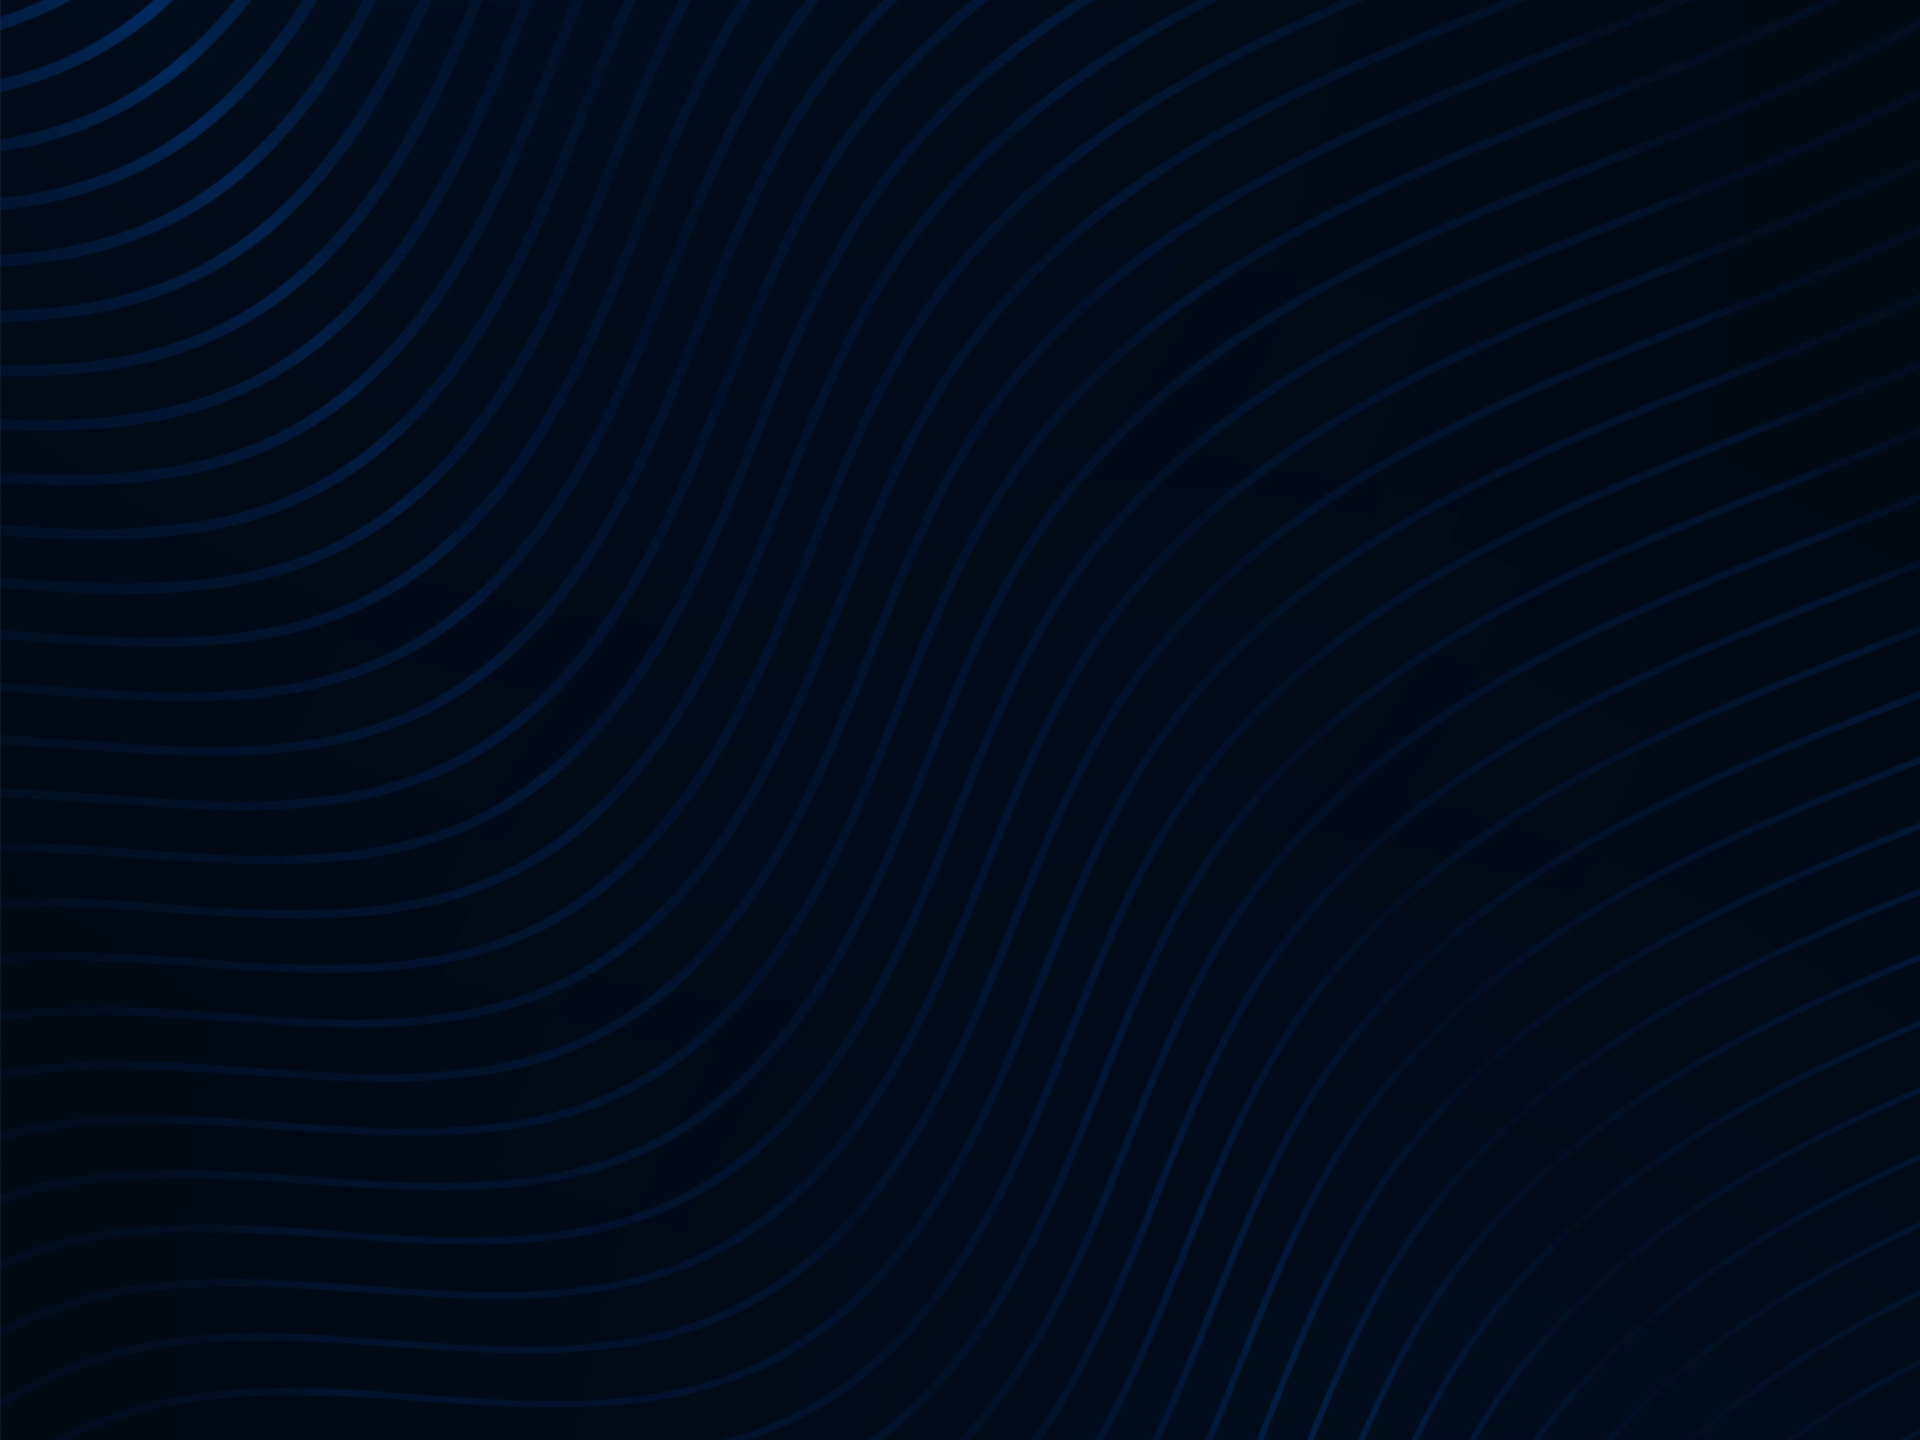
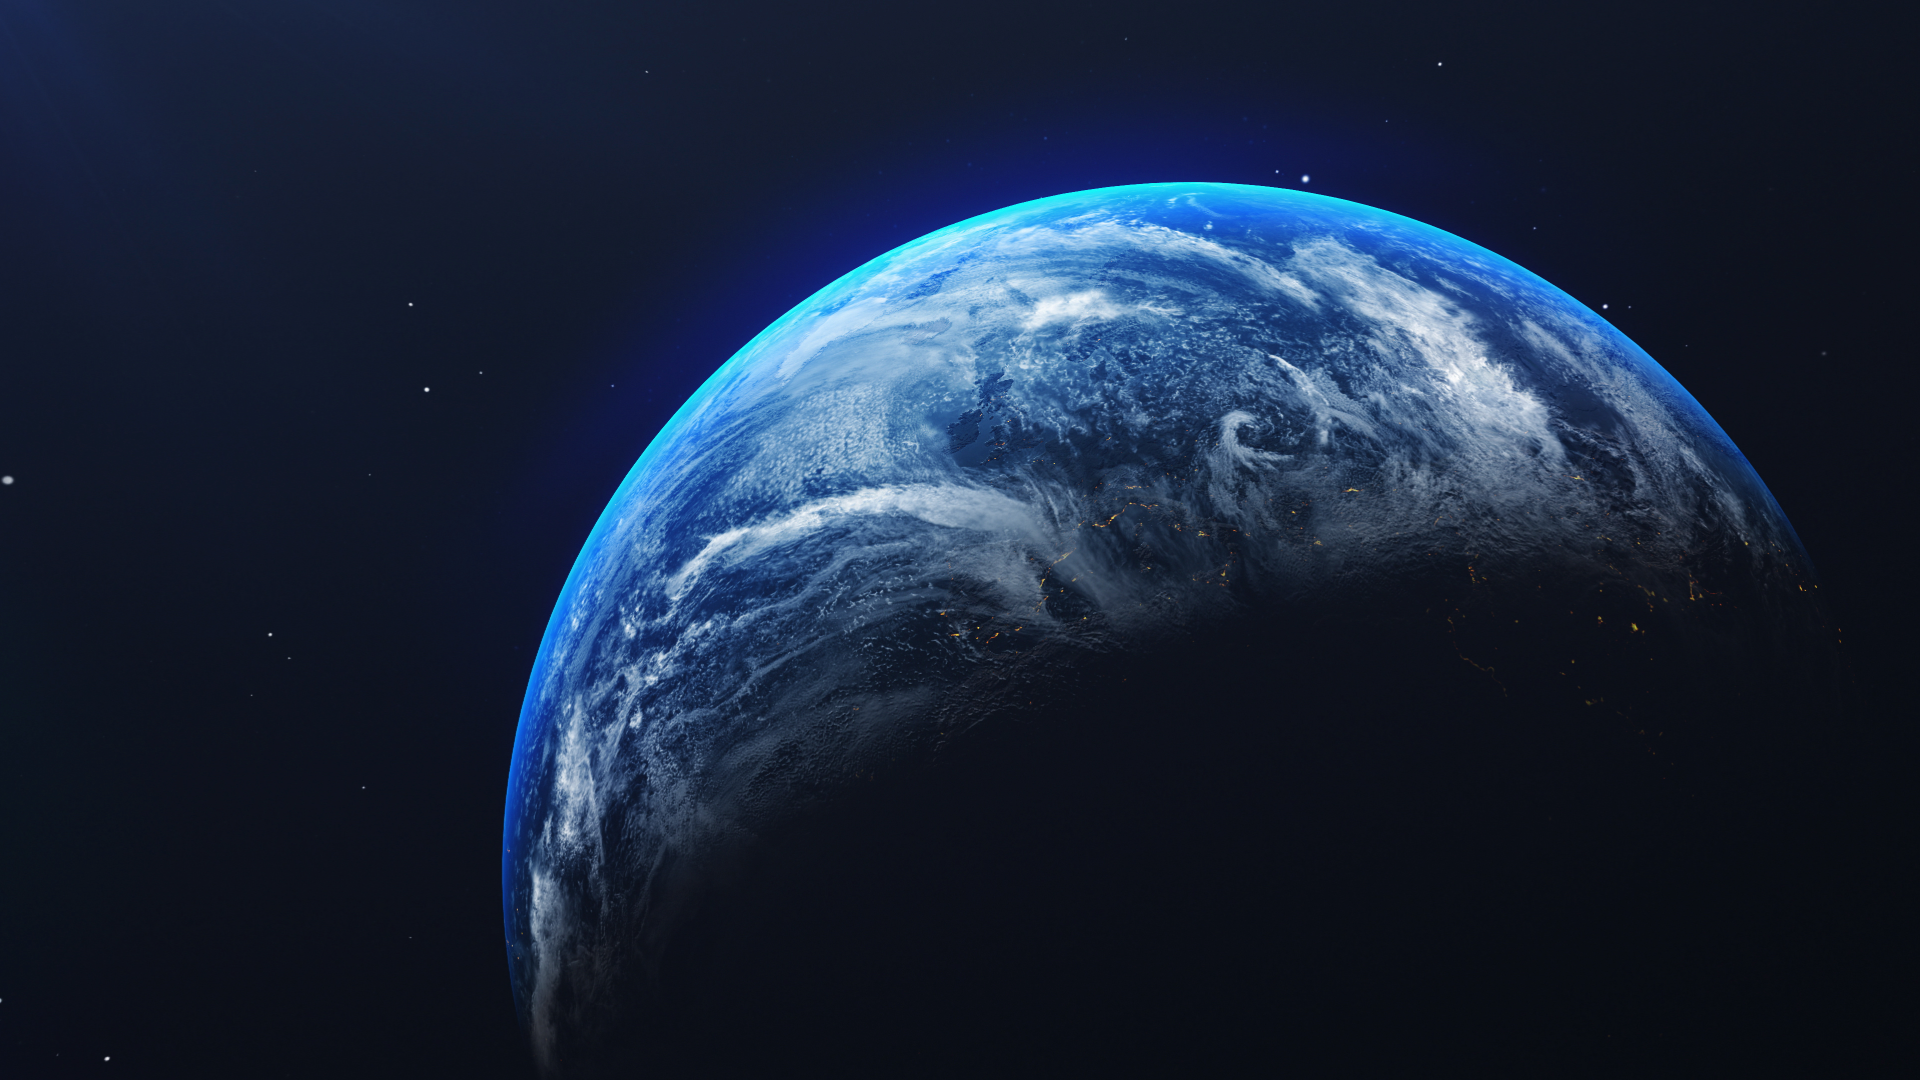
feat: update About Us and Blog components

diff --git a/src/utils/constant.tsx b/src/utils/constant.tsx
@@ -4,10 +4,8 @@ export const LANDING_NAV_ITEMS = [
   { label: "Products", link: "/products" },
   { label: "Customers", link: "/customers" },
   { label: "Installers", link: "/installers/landing" },
-  { label: "Designs", link: "/designs" },
-  { label: "Blog", link: "/blog" },
+  { label: "Design Platform", link: "/designs" },
   { label: "About Us", link: "/about-us" },
-  { label: "Contact", link: "/contact-us" },
 ] as const;
 
 /** Bluetti EP2000 product page — hero (`/bluetti`) */
@@ -3068,120 +3066,156 @@ export const ABOUT_US_PAGE = {
     items: [
       {
         id: "innovative-solar",
+        slug: "innovative-solar-technology",
         title: "Innovative Solar Technology",
         excerpt:
           "Exploring the latest advancements in solar panel technology that enhance efficiency and reduce costs for consumers.",
         category: "Installation",
-        date: "16 Sep",
+        dateLabel: "16 Sep",
         authorName: "Emily Johnson",
-        authorAvatarSrc: "/images/about-us/avatar.jpg",
+        authorAvatarSrc: "/images/logo.webp",
         authorAvatarAlt: "Emily Johnson",
-        imageSrc: "/images/about-us/portfolio-thumb.png",
-        imageAlt: "Rooftop solar installation on a residential property",
+        heroImageSrc: "/images/about-us/portfolio-thumb.png",
+        heroImageAlt: "Rooftop solar installation on a residential property",
+        thumbnailImageSrc: "/images/home/solar-panel-design.png",
+        thumbnailImageAlt: "Rooftop solar installation on a residential property",
+        href: "/blog/innovative-solar-technology",
       },
       {
         id: "sustainable-energy",
+        slug: "sustainable-energy-solutions",
         title: "Sustainable Energy Solutions",
         excerpt:
           "Exploring the latest advancements in solar panel technology that enhance efficiency and reduce costs for consumers.",
         category: "Installation",
-        date: "16 Sep",
+        dateLabel: "16 Sep",
         authorName: "Michael Smith",
-        authorAvatarSrc: "/images/about-us/avatar.jpg",
+        authorAvatarSrc: "/images/logo.webp",
         authorAvatarAlt: "Michael Smith",
-        imageSrc: "/images/about-us/portfolio-thumb.png",
-        imageAlt: "Sustainable energy system on a suburban home",
+        heroImageSrc: "/images/about-us/portfolio-thumb.png",
+        heroImageAlt: "Sustainable energy system on a suburban home",
+        thumbnailImageSrc: "/images/home/solar-panel-design.png",
+        thumbnailImageAlt: "Sustainable energy system on a suburban home",
+        href: "/blog/sustainable-energy-solutions",
       },
       {
         id: "solar-trends",
+        slug: "solar-energy-trends",
         title: "Solar Energy Trends",
         excerpt:
           "Exploring the latest advancements in solar panel technology that enhance efficiency and reduce costs for consumers.",
         category: "Installation",
-        date: "16 Sep",
+        dateLabel: "16 Sep",
         authorName: "Sarah Lee",
         authorAvatarSrc: "/images/about-us/avatar.jpg",
         authorAvatarAlt: "Sarah Lee",
-        imageSrc: "/images/about-us/portfolio-thumb.png",
-        imageAlt: "Solar array installation in progress",
+        heroImageSrc: "/images/about-us/portfolio-thumb.png",
+        heroImageAlt: "Solar array installation in progress",
+        thumbnailImageSrc: "/images/home/solar-panel-design.png",
+        thumbnailImageAlt: "Solar array installation in progress",
+        href: "/blog/solar-energy-trends",
       },
       {
         id: "urban-solar",
+        slug: "solar-innovations-for-urban-spaces",
         title: "Solar Innovations for Urban Spaces",
         excerpt:
           "Exploring the latest advancements in solar panel technology that enhance efficiency and reduce costs for consumers.",
         category: "Installation",
-        date: "16 Sep",
+        dateLabel: "16 Sep",
         authorName: "Jessica Martinez",
         authorAvatarSrc: "/images/about-us/avatar.jpg",
         authorAvatarAlt: "Jessica Martinez",
-        imageSrc: "/images/about-us/portfolio-thumb.png",
-        imageAlt: "Urban rooftop solar project",
+        heroImageSrc: "/images/about-us/portfolio-thumb.png",
+        heroImageAlt: "Urban rooftop solar project",
+        thumbnailImageSrc: "/images/home/solar-panel-design.png",
+        thumbnailImageAlt: "Urban rooftop solar project",
+        href: "/blog/solar-innovations-for-urban-spaces",
       },
       {
         id: "economic-growth",
+        slug: "solar-energy-and-economic-growth",
         title: "Solar Energy and Economic Growth",
         excerpt:
           "Exploring the latest advancements in solar panel technology that enhance efficiency and reduce costs for consumers.",
         category: "Installation",
-        date: "16 Sep",
+        dateLabel: "16 Sep",
         authorName: "David Thompson",
         authorAvatarSrc: "/images/about-us/avatar.jpg",
         authorAvatarAlt: "David Thompson",
-        imageSrc: "/images/about-us/portfolio-thumb.png",
-        imageAlt: "Commercial solar deployment",
+        heroImageSrc: "/images/about-us/portfolio-thumb.png",
+        heroImageAlt: "Commercial solar deployment",
+        thumbnailImageSrc: "/images/home/solar-panel-design.png",
+        thumbnailImageAlt: "Commercial solar deployment",
+        href: "/blog/solar-energy-and-economic-growth",
       },
       {
         id: "efficient-future",
+        slug: "building-an-efficient-solar-future",
         title: "Building an Efficient Solar Future",
         excerpt:
           "Exploring the latest advancements in solar panel technology that enhance efficiency and reduce costs for consumers.",
         category: "Installation",
-        date: "16 Sep",
+        dateLabel: "16 Sep",
         authorName: "Linda Chen",
         authorAvatarSrc: "/images/about-us/avatar.jpg",
         authorAvatarAlt: "Linda Chen",
-        imageSrc: "/images/about-us/portfolio-thumb.png",
-        imageAlt: "Efficient solar system on a new build home",
+        heroImageSrc: "/images/about-us/portfolio-thumb.png",
+        heroImageAlt: "Efficient solar system on a new build home",
+        thumbnailImageSrc: "/images/home/solar-panel-design.png",
+        thumbnailImageAlt: "Efficient solar system on a new build home",
+        href: "/blog/building-an-efficient-solar-future",
       },
       {
         id: "solar-storage",
+        slug: "the-future-of-solar-storage",
         title: "The Future of Solar Storage",
         excerpt:
           "Exploring the latest advancements in solar panel technology that enhance efficiency and reduce costs for consumers.",
         category: "Installation",
-        date: "16 Sep",
+        dateLabel: "16 Sep",
         authorName: "Brian Adams",
         authorAvatarSrc: "/images/about-us/avatar.jpg",
         authorAvatarAlt: "Brian Adams",
-        imageSrc: "/images/about-us/portfolio-thumb.png",
-        imageAlt: "Home battery and solar combination",
+        heroImageSrc: "/images/about-us/portfolio-thumb.png",
+        heroImageAlt: "Home battery and solar combination",
+        thumbnailImageSrc: "/images/home/solar-panel-design.png",
+        thumbnailImageAlt: "Home battery and solar combination",
+        href: "/blog/the-future-of-solar-storage",
       },
       {
         id: "smart-homes",
+        slug: "integrating-solar-into-smart-homes",
         title: "Integrating Solar into Smart Homes",
         excerpt:
           "Exploring the latest advancements in solar panel technology that enhance efficiency and reduce costs for consumers.",
         category: "Installation",
-        date: "16 Sep",
+        dateLabel: "16 Sep",
         authorName: "Karen White",
         authorAvatarSrc: "/images/about-us/avatar.jpg",
         authorAvatarAlt: "Karen White",
-        imageSrc: "/images/about-us/portfolio-thumb.png",
-        imageAlt: "Smart home with integrated solar controls",
-      },
-      {
+        heroImageSrc: "/images/about-us/portfolio-thumb.png",
+        heroImageAlt: "Smart home with integrated solar controls",
+        thumbnailImageSrc: "/images/home/solar-panel-design.png",
+        thumbnailImageAlt: "Smart home with integrated solar controls",
+        href: "/blog/integrating-solar-into-smart-homes",
+        },
+        {
         id: "policy-adoption",
+        slug: "the-role-of-policy-in-solar-adoption",
         title: "The Role of Policy in Solar Adoption",
         excerpt:
           "Exploring the latest advancements in solar panel technology that enhance efficiency and reduce costs for consumers.",
         category: "Installation",
-        date: "16 Sep",
+        dateLabel: "16 Sep",
         authorName: "James Wilson",
         authorAvatarSrc: "/images/about-us/avatar.jpg",
         authorAvatarAlt: "James Wilson",
-        imageSrc: "/images/about-us/portfolio-thumb.png",
-        imageAlt: "Policy-driven residential solar rollout",
+        heroImageSrc: "/images/about-us/portfolio-thumb.png",
+        heroImageAlt: "Policy-driven residential solar rollout",
+        thumbnailImageSrc: "/images/home/solar-panel-design.png",
+        thumbnailImageAlt: "Policy-driven residential solar rollout",
+        href: "/blog/the-role-of-policy-in-solar-adoption",
       },
     ],
   },

diff --git a/src/components/pages/blog/BlogPostCardVisual.tsx b/src/components/pages/blog/BlogPostCardVisual.tsx
@@ -25,8 +25,8 @@ export function BlogPostCardVisual({ post }: Props) {
 
 function BlogPostCardThumbnail({ post }: Props) {
   return (
-    <div className="absolute left-[calc(50%+0.6px)] top-[calc(50%+2.34px)] flex size-[140.056px] -translate-x-1/2 -translate-y-1/2 items-center justify-center rounded-[26.26px] border-[1.629px] border-blog-card-thumbnail-border bg-blog-card-thumbnail-backdrop">
-      <div className="relative size-[120.903px] overflow-hidden rounded-[16.967px] border-[0.729px] border-blog-card-thumbnail-border-inner bg-blog-card-thumbnail-placeholder">
+    <div className="absolute pt-7 flex size-full items-center justify-center rounded-[26.26px] border-[1.629px] border-blog-card-thumbnail-border">
+      <div className="relative size-[180px] overflow-hidden rounded-[16.967px] border-[0.729px] border-blog-card-thumbnail-border-inner bg-blog-card-thumbnail-placeholder">
         <Image
           src={post.thumbnailImageSrc}
           alt={post.thumbnailImageAlt}

diff --git a/src/components/pages/home/BluettiProductsSection.tsx b/src/components/pages/home/BluettiProductsSection.tsx
@@ -81,13 +81,13 @@ export function BluettiProductsSection() {
               className="overflow-hidden rounded-2xl bg-white shadow-[0_8px_32px_-8px_rgba(17,28,39,0.12)]"
             >
               {/* Image area */}
-              <div className="relative flex aspect-square items-center justify-center bg-linear-to-br from-cream-200 to-cream-400 p-8">
+              <div className="relative flex aspect-square items-center justify-center bg-linear-to-br from-cream-200 to-cream-400">
                 <Image
                   src={p.image}
                   alt={p.name}
-                  width={260}
-                  height={260}
+                  fill
                   className="object-contain"
+                  sizes="100%"
                 />
               </div>
               {/* Info */}

diff --git a/src/components/designs/DesignsHeroSection.tsx b/src/components/designs/DesignsHeroSection.tsx
@@ -265,7 +265,7 @@ export function DesignsHeroSection({
       <DesignTopBar />
       <div className="flex items-center flex-1">
         {activeScreen === "start" ? (
-          <div className="relative z-10 mx-auto flex w-full max-w-[1446px] flex-col gap-[29px] px-4 pt-24 sm:px-8 sm:pt-28 lg:px-[81px] lg:pt-[155px]">
+          <div className="relative z-10 mx-auto flex w-full max-w-[1446px] flex-col gap-[29px] px-4 pt-8 sm:px-8 lg:px-[81px]">
             <div className="flex w-full max-w-[1283px] flex-col items-stretch gap-5 lg:flex-row">
               <DesignsSavingsPromoCard className="lg:w-[629px]" />
               <DesignsHeroImagePanel className="lg:w-[634px]" />

diff --git a/src/components/pages/about-us/AboutUsPortfolioSection.tsx b/src/components/pages/about-us/AboutUsPortfolioSection.tsx
@@ -1,5 +1,6 @@
 import { AboutUsPortfolioCard } from "@/components/pages/about-us/AboutUsPortfolioCard";
 import { ABOUT_US_PAGE } from "@/utils/constant";
+import { BlogPostCard } from "../blog/BlogPostCard";
 
 export function AboutUsPortfolioSection() {
   const rows = [
@@ -27,7 +28,7 @@ export function AboutUsPortfolioSection() {
               className="grid grid-cols-1 justify-items-center gap-5 md:grid-cols-2 xl:grid-cols-3 xl:gap-5"
             >
               {row.map((item) => (
-                <AboutUsPortfolioCard key={item.id} item={item} />
+                <BlogPostCard key={item.id} post={item} />
               ))}
             </div>
           ))}

diff --git a/src/components/pages/blog/BlogPostCardContent.tsx b/src/components/pages/blog/BlogPostCardContent.tsx
@@ -17,7 +17,7 @@ export function BlogPostCardContent({ post }: Props) {
 function BlogPostCardContentInner({ post }: Props) {
   return (
     <div className="mx-auto flex w-full max-w-[349.583px] flex-col gap-[15.562px] px-[22px] pb-6 pt-[40.2px]">
-      <h2 className="font-source-sans text-[23.941px] font-bold leading-normal tracking-[-1.1971px] text-blog-card-title">
+      <h2 className="font-source-sans text-[23.941px] font-bold leading-normal tracking-[-1.1971px] text-blog-card-title truncate">
         {post.title}
       </h2>
       <div className="flex flex-col gap-[26.335px]">
